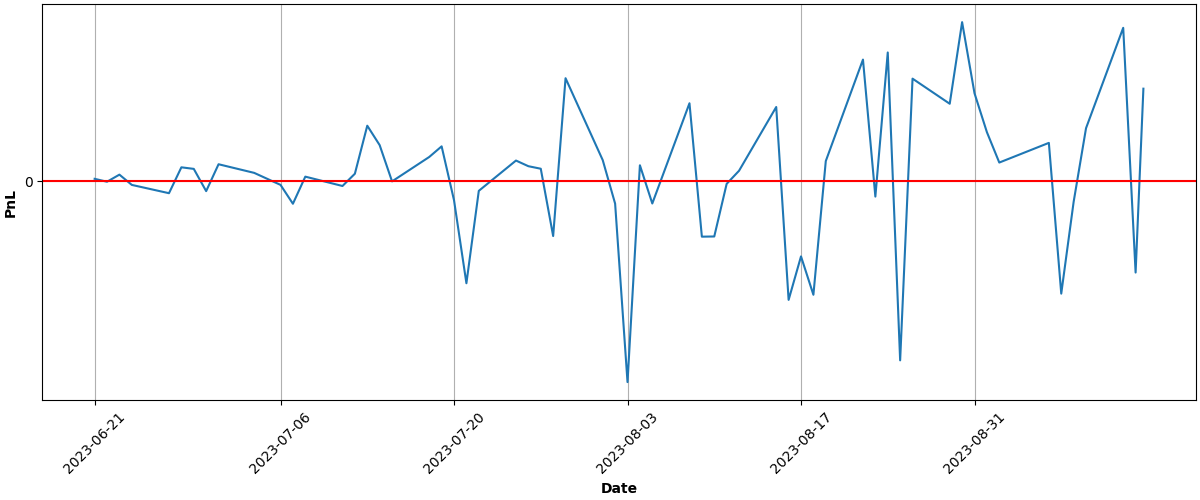
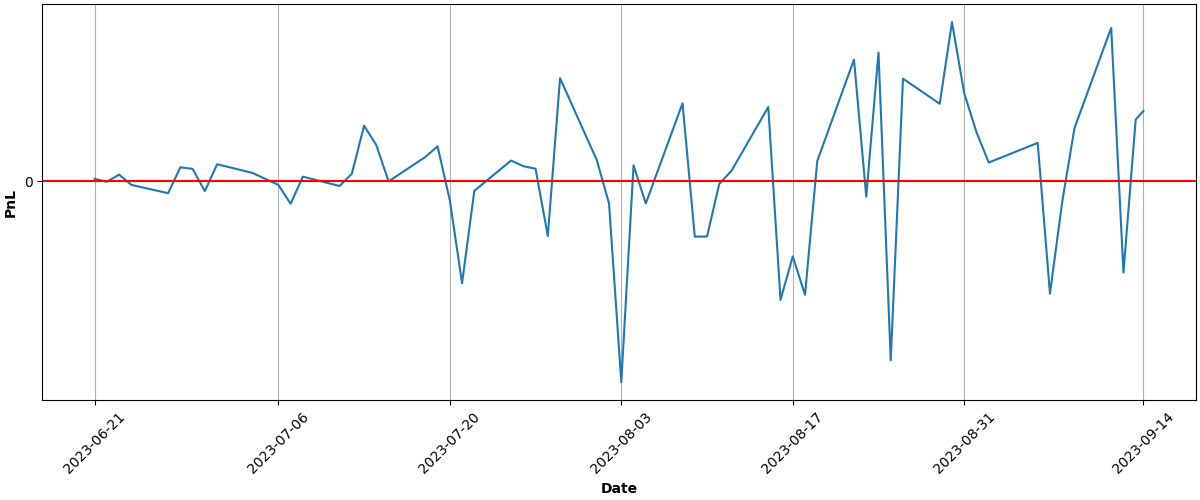
Automated Buy At Thu Sep 14 15:04:31 UTC 2023 Run ID 6187340310

diff --git a/README.md b/README.md
@@ -68,9 +68,9 @@ Results
 
 | Asset | Average Price | Current Price | ROI | 📈 |
 | --- | --- | --- | --- | --- |
-| FNGU | $182.305346535 | $185.82 | 1.93% | &#128994;&#128515; |
-| SVIX | $28.1836 | $32.57 | 15.56% | &#128994;&#128515; |
-| **Total** |  |  | **9.18%** | &#128994;&#128518; |
+| FNGU | $182.356759418 | $185.4268 | 1.68% | &#128994;&#128515; |
+| SVIX | $28.375757692 | $33.17 | 16.90% | &#128994;&#128515; |
+| **Total** |  |  | **9.89%** | &#128994;&#128518; |
 
 ### PnL over time (calculations may not be accurate):
 
@@ -81,6 +81,6 @@ Results
 ---
 
 
-Updated at 2023-09-13 15:05:02
+Updated at 2023-09-14 15:04:48
 
 
